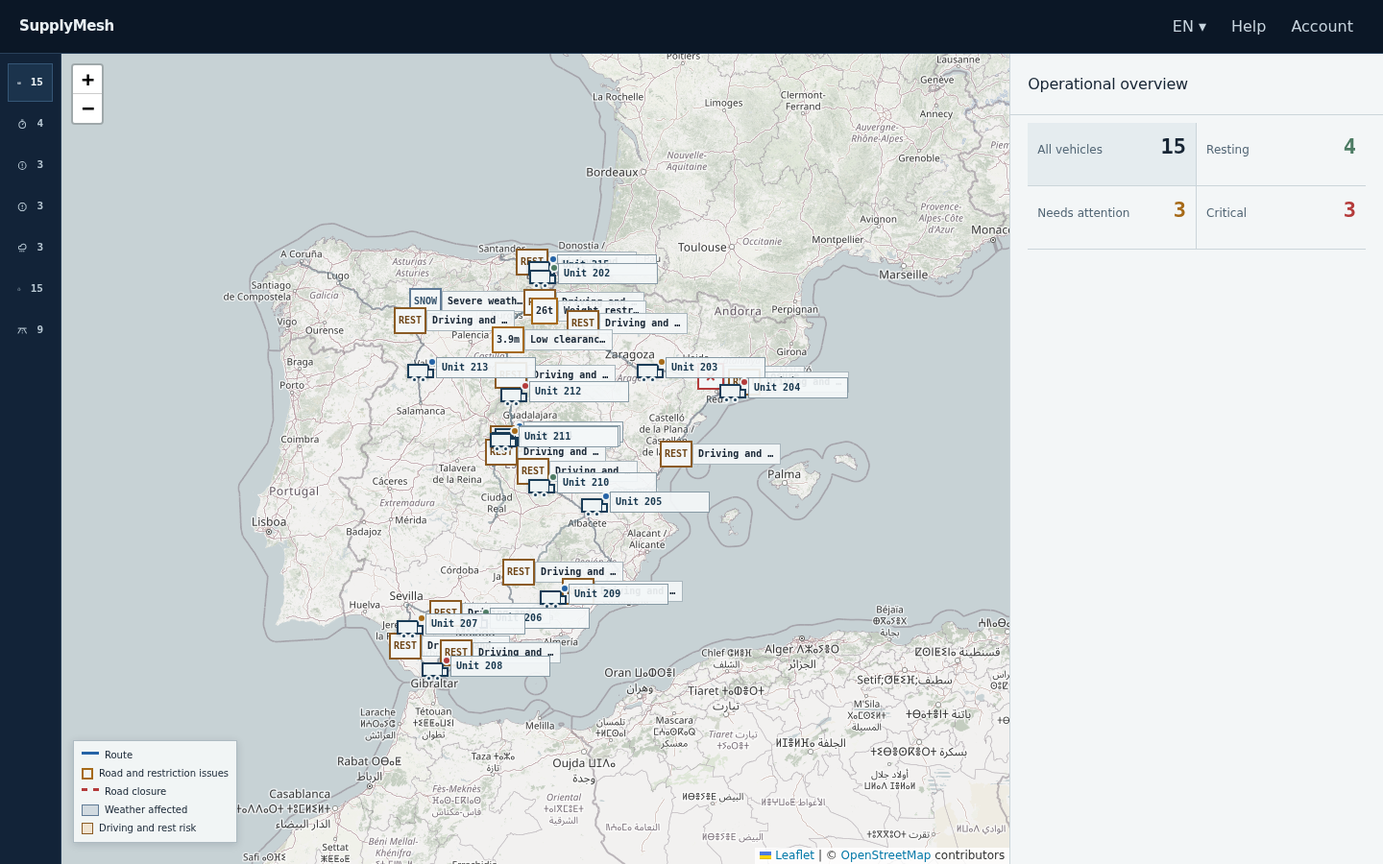
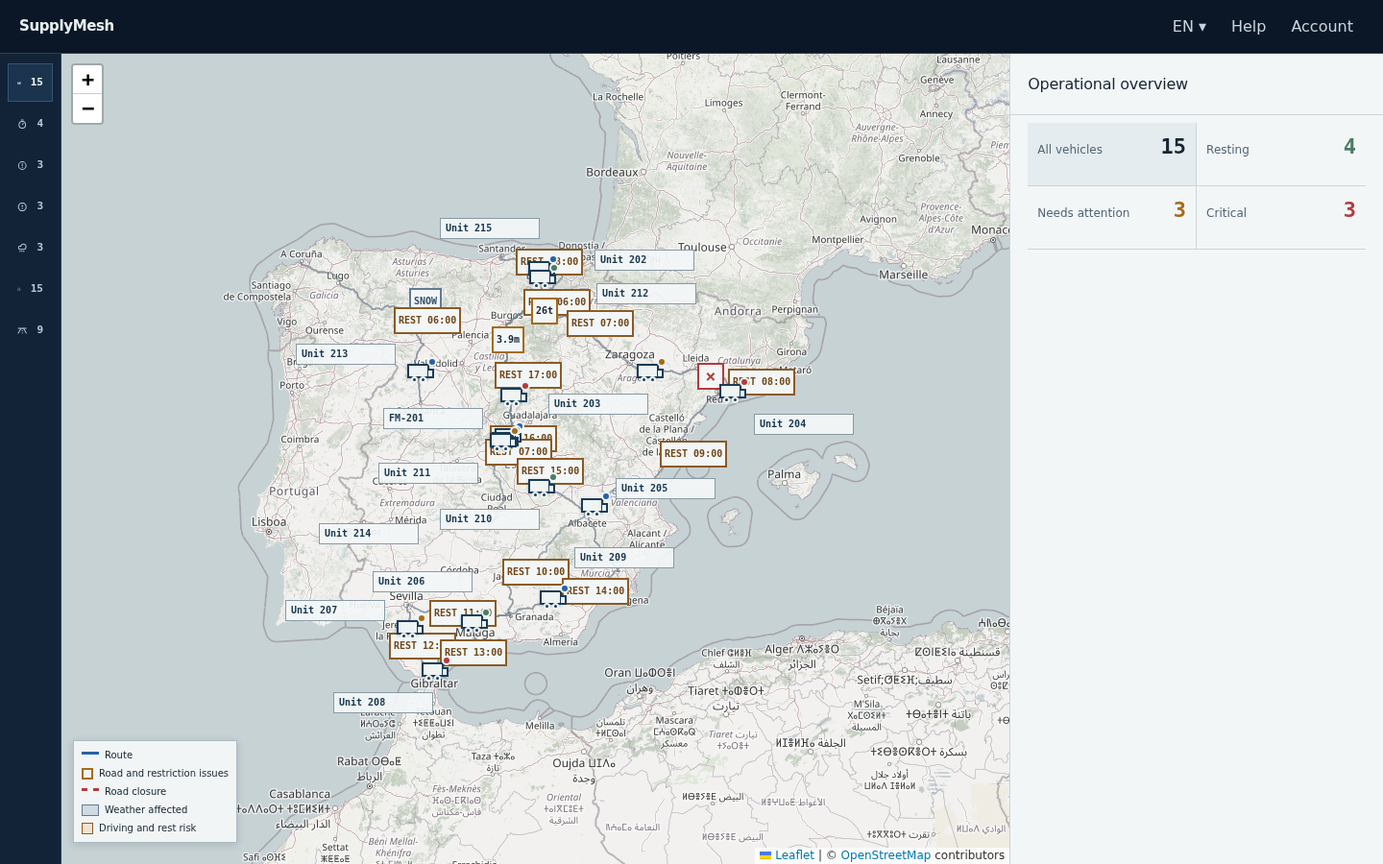
fix(map): resolve operational label collisions

diff --git a/e2e/operational-console.spec.ts b/e2e/operational-console.spec.ts
@@ -82,6 +82,19 @@ async function capture(page: Page, name: string): Promise<void> {
   await page.screenshot({ animations: "disabled", path: path.join(process.cwd(), "docs/evidence/phase1-1", name) });
 }
 
+async function assertCollisionFreeLabels(page: Page): Promise<void> {
+  await expect.poll(async () => page.evaluate(() => {
+    const roots = [...document.querySelectorAll<HTMLElement>(".fleet-label-icon")];
+    const obstacles = [...document.querySelectorAll<HTMLElement>(".fleet-truck-icon, .risk-marker")];
+    const intersects = (left: DOMRect, right: DOMRect): boolean => left.left < right.right && left.right > right.left && left.top < right.bottom && left.bottom > right.top;
+    const collisions = roots.flatMap((root, index) => {
+      const rect = root.getBoundingClientRect();
+      return [...roots.slice(index + 1), ...obstacles].filter((other) => intersects(rect, other.getBoundingClientRect())).map((other) => `${root.title}|${other.title || other.className}`);
+    });
+    return { collisions, count: roots.length, opaque: roots.every((root) => getComputedStyle(root).opacity === "1"), overflow: roots.some((root) => { const label = root.querySelector<HTMLElement>(".fleet-marker-label")!; return label.scrollWidth > label.clientWidth; }), visible: roots.filter((root) => root.getBoundingClientRect().width > 0).length };
+  })).toEqual({ collisions: [], count: 15, opaque: true, overflow: false, visible: 15 });
+}
+
 test.beforeEach(async ({ page }) => page.emulateMedia({ reducedMotion: "reduce" }));
 
 test("should trace all 58 corrected SDD scenarios", async () => {
@@ -131,8 +144,16 @@ test("should complete the desktop filters, map, inspection, locale, and restorat
   await expect(page.locator(".fleet-truck-icon")).toHaveCount(15);
   await expect(page.locator(".fleet-label-icon")).toHaveCount(15);
   await expect(page.locator(".route-corridor")).toHaveCount(15);
+  await assertCollisionFreeLabels(page);
+  await expect(page.locator(".risk-marker-symbol")).toHaveCount(19);
+  await expect(page.locator(".risk-marker-label:visible")).toHaveCount(0);
+  const panes = await page.evaluate(() => ["risk-tokens", "fleet-trucks", "fleet-labels"].map((name) => Number(getComputedStyle(document.querySelector<HTMLElement>(`.leaflet-${name}-pane`)!).zIndex)));
+  expect(panes).toEqual([620, 640, 660]);
   await expect(page.getByRole("group", { name: "Map legend" }).getByRole("listitem")).toHaveCount(5);
   await page.getByRole("button", { name: "Weather affected" }).click();
+  await assertCollisionFreeLabels(page);
+  await expect(page.locator(".risk-marker.map-layer-matched")).toHaveCount(1);
+  await expect(page.locator(".risk-marker.map-layer-matched.risk-severe-snow")).toHaveCount(1);
   await expect(page.getByRole("heading", { name: "Weather affected" })).toBeVisible();
   await expect(page.locator(".vehicle-result-card")).toHaveCount(3);
   await page.getByRole("button", { name: "Critical" }).click();
@@ -145,6 +166,7 @@ test("should complete the desktop filters, map, inspection, locale, and restorat
   for (const heading of ["Identity", "Operational summary", "Why attention is needed", "Actions"]) await expect(inspection.getByRole("heading", { name: heading })).toBeVisible();
   await expect(page.locator(".route-corridor-selected")).toHaveCount(1);
   await expect(page.locator(".risk-marker.map-layer-selected")).not.toHaveCount(0);
+  await expect(page.locator(".risk-marker.map-layer-selected .risk-marker-label:visible")).not.toHaveCount(0);
   await inspection.getByRole("button", { name: "View on route" }).click();
   await page.locator(".map-frame").dispatchEvent("wheel");
   await expect(inspection.getByRole("button", { name: "Follow Unit 204" })).toBeVisible();
@@ -196,6 +218,9 @@ test("should keep tablet dialogs accessible, contained, and focus-restoring", as
   expect(bounds).not.toBeNull();
   expect(bounds!.x).toBeGreaterThanOrEqual(0);
   expect(bounds!.y + bounds!.height).toBeLessThanOrEqual(900);
+  await inspection.evaluate((node) => { node.scrollTop = node.scrollHeight; });
+  await expect(inspection.getByRole("heading", { name: "Actions" })).toBeVisible();
+  await expect(inspection.getByRole("tablist")).toBeVisible();
   await inspection.getByRole("button", { name: "Close inspection" }).click();
   await expect(results).toBeVisible();
   await expect(results.getByRole("button", { name: "Select Unit 204" })).toBeFocused();
@@ -221,9 +246,11 @@ test("should suppress nonessential motion and exclude prohibited or Phase 2 chro
 test("should capture exactly the six accepted real-application evidence states", async ({ page }) => {
   await installModelContextSeam(page);
   await resetApplication(page, 1440, 900);
+  await assertCollisionFreeLabels(page);
   await capture(page, "desktop-overview.png");
   await resetApplication(page, 1440, 900);
   await page.getByRole("button", { name: "Weather affected" }).click();
+  await assertCollisionFreeLabels(page);
   await capture(page, "desktop-weather-filter.png");
   await resetApplication(page, 1440, 900);
   await selectUnit204(page);
@@ -231,6 +258,7 @@ test("should capture exactly the six accepted real-application evidence states",
   await resetApplication(page, 1440, 900);
   await page.getByRole("button", { name: "Weather affected" }).click();
   await page.getByRole("button", { name: "Critical" }).click();
+  await assertCollisionFreeLabels(page);
   await capture(page, "desktop-two-filters.png");
   await resetApplication(page, 900, 900);
   await page.getByRole("button", { name: "Weather affected" }).click();

diff --git a/src/features/map/VehicleMarkerLayer.tsx b/src/features/map/VehicleMarkerLayer.tsx
@@ -1,9 +1,10 @@
 import { divIcon, type DivIcon } from "leaflet";
-import { Fragment } from "react";
-import { Marker } from "react-leaflet";
+import { Fragment, useEffect } from "react";
+import { Marker, useMap } from "react-leaflet";
 import { getVehicleDisplayName } from "../../domain/entities";
 import { catalog, interpolate, type Locale } from "../../preferences/i18n/catalog";
 import type { DerivedVehicle, LayerState } from "./layers";
+import { placeLabels, type ScreenRect } from "./labelPlacement";
 
 function escapeHtml(value: string): string {
   return value.replaceAll("&", "&amp;").replaceAll("<", "&lt;").replaceAll(">", "&gt;").replaceAll('"', "&quot;");
@@ -15,20 +16,41 @@ function createVehicleMarkerIcons(vehicle: DerivedVehicle["vehicle"], state: Lay
   return {
     truck: divIcon({
       className: `fleet-truck-icon map-layer-${state}`,
-      html: `<span class="fleet-status-pin status-${status}" aria-hidden="true"></span><span class="fleet-truck-shape" aria-hidden="true"><span></span></span>`,
+      html: `<span data-vehicle-truck="${vehicle.internalId}" class="fleet-status-pin status-${status}" aria-hidden="true"></span><span class="fleet-truck-shape" aria-hidden="true"><span></span></span>`,
       iconAnchor: [15, 15], iconSize: [30, 30],
     }),
     label: divIcon({
       className: `fleet-label-icon map-layer-${state}`,
-      html: `<span class="fleet-marker-label">${label}</span>`,
+      html: `<span data-vehicle-label="${vehicle.internalId}" class="fleet-marker-label">${label}</span>`,
       iconAnchor: [-18, 14], iconSize: [104, 28],
     }),
   };
 }
 
 export function VehicleMarkerLayer({ locale, onSelect, vehicles }: { locale: Locale; onSelect(vehicleId: string): void; vehicles: readonly DerivedVehicle[] }) {
+  const map = useMap();
   const copy = catalog(locale);
   const suffix = locale === "es" ? { truck: "camión", label: "etiqueta" } : { truck: "truck", label: "label" };
+  useEffect(() => {
+    let frame = 0;
+    const place = (): void => {
+      cancelAnimationFrame(frame);
+      frame = requestAnimationFrame(() => {
+        const containerRect = map.getContainer().getBoundingClientRect();
+        const labelNodes = [...map.getContainer().querySelectorAll<HTMLElement>("[data-vehicle-label]")];
+        const roots = labelNodes.map((node) => node.closest<HTMLElement>(".fleet-label-icon")!).filter(Boolean);
+        roots.forEach((root) => { root.style.translate = "0 0"; });
+        const trucks = new Map([...map.getContainer().querySelectorAll<HTMLElement>("[data-vehicle-truck]")].map((node) => [node.dataset.vehicleTruck!, node.closest<HTMLElement>(".fleet-truck-icon")!.getBoundingClientRect()]));
+        const obstacles: ScreenRect[] = [...trucks.values(), ...[...map.getContainer().querySelectorAll<HTMLElement>(".risk-marker")].map((node) => node.getBoundingClientRect())];
+        const points = labelNodes.map((node) => { const truck = trucks.get(node.dataset.vehicleLabel!)!; return { id: node.dataset.vehicleLabel!, x: truck.x + truck.width / 2, y: truck.y + truck.height / 2 }; });
+        const placements = new Map(placeLabels(points, { x: containerRect.x + 8, y: containerRect.y + 8, width: containerRect.width - 16, height: containerRect.height - 16 }, obstacles).map((entry) => [entry.id, entry.rect]));
+        labelNodes.forEach((node) => { const root = node.closest<HTMLElement>(".fleet-label-icon")!; const base = root.getBoundingClientRect(); const target = placements.get(node.dataset.vehicleLabel!)!; root.style.translate = `${target.x - base.x}px ${target.y - base.y}px`; });
+      });
+    };
+    map.on("moveend zoomend resize", place); place();
+    return () => { cancelAnimationFrame(frame); map.off("moveend zoomend resize", place); };
+  }, [map, vehicles]);
+
   return vehicles.map(({ vehicle, state, zIndex }) => {
     const [longitude, latitude] = vehicle.position.geometry.coordinates;
     const displayName = getVehicleDisplayName(vehicle);
@@ -36,8 +58,8 @@ export function VehicleMarkerLayer({ locale, onSelect, vehicles }: { locale: Loc
     const icons = createVehicleMarkerIcons(vehicle, state);
     const eventHandlers = { click: () => onSelect(vehicle.internalId) };
     return <Fragment key={vehicle.internalId}>
-      <Marker alt={`${selectName} ${suffix.truck}`} eventHandlers={eventHandlers} icon={icons.truck} keyboard position={[latitude, longitude]} title={`${selectName} ${suffix.truck}`} zIndexOffset={zIndex} />
-      <Marker alt={`${selectName} ${suffix.label}`} eventHandlers={eventHandlers} icon={icons.label} keyboard position={[latitude, longitude]} title={`${selectName} ${suffix.label}`} zIndexOffset={zIndex + 1} />
+      <Marker alt={`${selectName} ${suffix.truck}`} eventHandlers={eventHandlers} icon={icons.truck} keyboard pane="fleet-trucks" position={[latitude, longitude]} title={`${selectName} ${suffix.truck}`} zIndexOffset={zIndex} />
+      <Marker alt={`${selectName} ${suffix.label}`} eventHandlers={eventHandlers} icon={icons.label} keyboard pane="fleet-labels" position={[latitude, longitude]} title={`${selectName} ${suffix.label}`} zIndexOffset={zIndex + 1} />
     </Fragment>;
   });
 }

diff --git a/src/features/map/FleetMap.tsx b/src/features/map/FleetMap.tsx
@@ -1,6 +1,6 @@
 import { divIcon, latLngBounds, type LatLngExpression, type Map as LeafletMap } from "leaflet";
 import { Fragment, useEffect, useMemo } from "react";
-import { MapContainer, Marker, Polygon, Polyline, TileLayer, useMap, useMapEvents } from "react-leaflet";
+import { MapContainer, Marker, Pane, Polygon, Polyline, TileLayer, useMap, useMapEvents } from "react-leaflet";
 import { useUiCoordinationStore } from "../../app/state/useUiCoordinationStore";
 import type { OperatingRegion, OperationalRisk, RiskSeverity } from "../../domain/entities";
 import { catalog, operationalCopy, type Locale } from "../../preferences/i18n/catalog";
@@ -82,8 +82,8 @@ function riskLabel(risk: OperationalRisk, locale: Locale): string {
 
 function riskIcon(entry: DerivedRisk, locale: Locale) {
   const { risk, state } = entry; const label = escapeHtml(riskLabel(risk, locale));
-  const symbol = risk.kind === "height-restriction" ? `${risk.limitMeters}m` : risk.kind === "weight-restriction" ? `${risk.limitTonnes}t` : risk.kind === "road-closure" ? "×" : risk.kind === "severe-snow" ? "SNOW" : "REST";
-  return divIcon({ className: `risk-marker risk-${risk.kind} map-layer-${state}`, html: `<span class="risk-marker-symbol">${symbol}</span><span class="risk-marker-label">${label}</span>`, iconAnchor: [14, 14], iconSize: [120, 28] });
+  const symbol = risk.kind === "height-restriction" ? `${risk.limitMeters}m` : risk.kind === "weight-restriction" ? `${risk.limitTonnes}t` : risk.kind === "road-closure" ? "×" : risk.kind === "severe-snow" ? "SNOW" : `REST ${risk.deadline?.slice(11, 16) ?? ""}`.trim();
+  return divIcon({ className: `risk-marker risk-${risk.kind} map-layer-${state}`, html: `<span class="risk-marker-symbol">${symbol}</span><span class="risk-marker-label">${label}</span>`, iconAnchor: [14, 14], iconSize: [state === "selected" ? 120 : 64, 28] });
 }
 
 function RiskLayers({ entries, locale }: { entries: readonly DerivedRisk[]; locale: Locale }) {
@@ -93,7 +93,7 @@ function RiskLayers({ entries, locale }: { entries: readonly DerivedRisk[]; loca
     const shape = risk.geometry.geometry.type === "Polygon"
       ? <Polygon pathOptions={pathOptions} positions={risk.geometry.geometry.coordinates[0].map(toPosition)} />
       : <Polyline noClip pathOptions={pathOptions} positions={risk.geometry.geometry.coordinates.map(toPosition)} smoothFactor={0} />;
-    return <Fragment key={risk.id}>{shape}<Marker alt={riskLabel(risk, locale)} icon={riskIcon(entry, locale)} interactive={false} keyboard={false} position={riskPosition(risk)} title={riskLabel(risk, locale)} zIndexOffset={state === "selected" ? 1300 : 500} /></Fragment>;
+    return <Fragment key={risk.id}>{shape}<Marker alt={riskLabel(risk, locale)} icon={riskIcon(entry, locale)} interactive={false} keyboard={false} pane="risk-tokens" position={riskPosition(risk)} title={riskLabel(risk, locale)} zIndexOffset={state === "selected" ? 1300 : 500} /></Fragment>;
   });
 }
 
@@ -119,6 +119,7 @@ export function FleetMap({ locale, scenario }: { locale: Locale; scenario: Opera
   return <div aria-label={copy.currentRoute} className="map-frame" onKeyDown={(event) => { if (["ArrowUp", "ArrowDown", "ArrowLeft", "ArrowRight", "+", "-", "="].includes(event.key)) cancelManualFollow(); }} onPointerDown={cancelManualFollow} onWheel={cancelManualFollow}>
     <MapContainer bounds={SPAIN_BOUNDS} boundsOptions={{ padding: [24, 24] }} className="fleet-map" maxZoom={12} minZoom={5} zoomControl>
       <TileLayer attribution='&copy; <a href="https://www.openstreetmap.org/copyright">OpenStreetMap</a> contributors' url="https://{s}.tile.openstreetmap.org/{z}/{x}/{y}.png" />
+      <Pane name="risk-tokens" style={{ zIndex: 620 }} /><Pane name="fleet-trucks" style={{ zIndex: 640 }} /><Pane name="fleet-labels" style={{ zIndex: 660 }} />
       <MapEvents coordinator={coordinator} /><MapFocus coordinator={coordinator} scenario={scenario} /><MapLayout coordinator={coordinator} signature={layoutSignature} />
       {layers.routes.map((entry) => <Polyline key={entry.route.id} noClip pathOptions={routeStyle(entry)} positions={routePositions(entry.route)} smoothFactor={0} />)}
       <RiskLayers entries={layers.risks} locale={locale} />

diff --git a/src/features/map/FleetMap.test.ts b/src/features/map/FleetMap.test.ts
@@ -24,16 +24,18 @@ describe("FleetMap layers", () => {
 
     expect(filtered.vehicles.filter((entry) => entry.state === "matched")).toHaveLength(5);
     expect(filtered.vehicles.filter((entry) => entry.state === "muted")).toHaveLength(10);
+    expect(filtered.risks.filter((entry) => entry.state === "matched").every((entry) => entry.risk.kind === "severe-snow")).toBe(true);
+    expect(filtered.risks.filter((entry) => entry.risk.kind === "rest-deadline").every((entry) => entry.state === "muted")).toBe(true);
     expect(selected.vehicles.find((entry) => entry.state === "selected")?.zIndex).toBeGreaterThan(1000);
     expect(selected.routes.at(-1)?.state).toBe("selected");
     expect(selected.risks.filter((entry) => entry.state === "selected").every((entry) => entry.risk.affectedVehicleIds.includes("vehicle-001"))).toBe(true);
   });
 
   it("should allow only presentation and accepted scenario dependencies in visual map files", () => {
-    const sources = ["FleetMap.tsx", "layers.ts", "VehicleMarkerLayer.tsx", "MapLegend.tsx", "MapEventCoordinator.ts"]
+    const sources = ["FleetMap.tsx", "layers.ts", "VehicleMarkerLayer.tsx", "labelPlacement.ts", "MapLegend.tsx", "MapEventCoordinator.ts"]
       .map((file) => readFileSync(`src/features/map/${file}`, "utf8"))
       .join("\n");
-    const allowedImports = new Set(["leaflet", "react", "react-leaflet", "../../app/state/useUiCoordinationStore", "../../domain/entities", "../../preferences/i18n/catalog", "../fleet/filtering", "./layers", "./MapEventCoordinator", "./MapLegend", "./VehicleMarkerLayer"]);
+    const allowedImports = new Set(["leaflet", "react", "react-leaflet", "../../app/state/useUiCoordinationStore", "../../domain/entities", "../../preferences/i18n/catalog", "../fleet/filtering", "./layers", "./labelPlacement", "./MapEventCoordinator", "./MapLegend", "./VehicleMarkerLayer"]);
     const imports = [...sources.matchAll(/from\s+["']([^"']+)["']/g)].map((match) => match[1]);
     const networkCall = new RegExp(`\\b${["fet", "ch"].join("")}\\s*\\(`);
 

diff --git a/src/features/map/labelPlacement.ts b/src/features/map/labelPlacement.ts
@@ -1,0 +1,32 @@
+export type ScreenRect = { height: number; width: number; x: number; y: number };
+export type ScreenPoint = { id: string; x: number; y: number };
+
+const LABEL = { height: 28, width: 104 };
+const directions = [[1, 0], [-1, 0], [0, -1], [0, 1], [1, -1], [-1, -1], [1, 1], [-1, 1]] as const;
+
+export function rectanglesIntersect(left: ScreenRect, right: ScreenRect): boolean {
+  return left.x < right.x + right.width && left.x + left.width > right.x && left.y < right.y + right.height && left.y + left.height > right.y;
+}
+
+function contained(rect: ScreenRect, bounds: ScreenRect): boolean {
+  return rect.x >= bounds.x && rect.y >= bounds.y && rect.x + rect.width <= bounds.x + bounds.width && rect.y + rect.height <= bounds.y + bounds.height;
+}
+
+function candidate(point: ScreenPoint, direction: readonly [number, number], radius: number): ScreenRect {
+  const [horizontal, vertical] = direction;
+  return { height: LABEL.height, width: LABEL.width, x: point.x + horizontal * radius - (horizontal <= 0 ? LABEL.width : 0), y: point.y + vertical * radius - (vertical <= 0 ? LABEL.height : 0) };
+}
+
+export function placeLabels(points: readonly ScreenPoint[], bounds: ScreenRect, obstacles: readonly ScreenRect[]): Array<{ id: string; rect: ScreenRect }> {
+  const occupied = [...obstacles];
+  return [...points].sort((left, right) => left.id.localeCompare(right.id)).map((point) => {
+    const candidates = [24, 56, 88, 120, 152, 184, 216, 248].flatMap((radius) => directions.map((direction) => candidate(point, direction, radius)));
+    const rect = candidates.find((entry) => contained(entry, bounds) && occupied.every((obstacle) => !rectanglesIntersect(entry, obstacle))) ?? {
+      height: LABEL.height, width: LABEL.width,
+      x: Math.min(Math.max(point.x + 24, bounds.x), bounds.x + bounds.width - LABEL.width),
+      y: Math.min(Math.max(point.y - LABEL.height, bounds.y), bounds.y + bounds.height - LABEL.height),
+    };
+    occupied.push(rect);
+    return { id: point.id, rect };
+  });
+}

diff --git a/src/styles.css b/src/styles.css
@@ -136,10 +136,13 @@ button:focus-visible, a:focus-visible, [tabindex]:focus-visible {
 .status-driving { background: var(--route); } .status-resting { background: var(--resting); } .status-needs-attention { background: var(--warning); } .status-critical { background: var(--critical); }
 .fleet-marker-label { background: rgb(243 246 247 / 92%); border: 1px solid #879aa5; color: #17374e; display: block; font: 650 10px/1.2 ui-monospace, SFMono-Regular, Menlo, monospace; max-width: 104px; overflow: hidden; padding: 4px 5px; text-overflow: ellipsis; white-space: nowrap; }
 .map-layer-muted { opacity: .3; } .map-layer-matched { opacity: 1; } .map-layer-selected { opacity: 1; }
+.fleet-label-icon.map-layer-muted { opacity: 1; }
+.fleet-label-icon.map-layer-muted .fleet-marker-label { background: #edf1f2; border-color: #9ba9b1; color: #5b6d78; }
 .map-layer-selected .fleet-truck-shape, .map-layer-selected .fleet-marker-label { border-color: var(--route); box-shadow: 0 0 0 2px rgb(37 99 166 / 30%); }
 .risk-marker { color: var(--ink); font: 650 10px/1 ui-monospace, SFMono-Regular, Menlo, monospace; white-space: nowrap; }
 .risk-marker-symbol { align-items: center; background: var(--panel); border: 2px solid var(--warning); display: inline-flex; height: 28px; justify-content: center; min-width: 28px; padding: 0 3px; vertical-align: middle; }
 .risk-marker-label { background: rgb(243 246 247 / 92%); border: 1px solid #a9b6bd; display: inline-block; max-width: 92px; overflow: hidden; padding: 5px; text-overflow: ellipsis; vertical-align: middle; }
+.risk-marker:not(.map-layer-selected) .risk-marker-label { display: none; }
 .risk-road-closure .risk-marker-symbol { border-color: var(--critical); color: var(--critical); font-size: 18px; }
 .risk-severe-snow .risk-marker-symbol { border-color: var(--weather); color: #36536c; }
 .risk-rest-deadline .risk-marker-symbol { border-color: #8b5b24; color: #704718; }

diff --git a/src/features/map/labelPlacement.test.ts b/src/features/map/labelPlacement.test.ts
@@ -1,0 +1,22 @@
+import { describe, expect, it } from "vitest";
+import { placeLabels, rectanglesIntersect } from "./labelPlacement";
+
+describe("screen-space vehicle label placement", () => {
+  it("should deterministically place all fixture labels inside the viewport without intersections", () => {
+    const points = Array.from({ length: 15 }, (_, index) => ({ id: `vehicle-${String(index + 1).padStart(3, "0")}`, x: 330 + index % 5 * 18, y: 230 + Math.floor(index / 5) * 18 })).reverse();
+    const obstacles = [{ height: 34, width: 34, x: 348, y: 248 }, { height: 32, width: 62, x: 420, y: 210 }];
+    const first = placeLabels(points, { height: 600, width: 820, x: 0, y: 0 }, obstacles);
+    const second = placeLabels([...points].reverse(), { height: 600, width: 820, x: 0, y: 0 }, obstacles);
+
+    expect(second).toEqual(first);
+    expect(first).toHaveLength(15);
+    expect(first.map(({ id }) => id)).toEqual([...first.map(({ id }) => id)].sort());
+    expect(first.every(({ rect }) => rect.x >= 0 && rect.y >= 0 && rect.x + rect.width <= 820 && rect.y + rect.height <= 600)).toBe(true);
+    expect(first.every(({ rect }, index) => obstacles.every((obstacle) => !rectanglesIntersect(rect, obstacle)) && first.slice(index + 1).every((other) => !rectanglesIntersect(rect, other.rect)))).toBe(true);
+  });
+
+  it("should use a contained fallback for vehicles at viewport edges", () => {
+    const result = placeLabels([{ id: "east", x: 798, y: 10 }, { id: "west", x: 2, y: 590 }], { height: 600, width: 820, x: 0, y: 0 }, []);
+    expect(result.every(({ rect }) => rect.x >= 0 && rect.y >= 0 && rect.x + rect.width <= 820 && rect.y + rect.height <= 600)).toBe(true);
+  });
+});

diff --git a/src/features/map/layers.ts b/src/features/map/layers.ts
@@ -8,6 +8,12 @@ export type DerivedRoute = { route: Route; state: LayerState };
 export type DerivedRisk = { risk: OperationalRisk; state: LayerState };
 export type MapLayers = { vehicles: DerivedVehicle[]; routes: DerivedRoute[]; risks: DerivedRisk[] };
 
+function riskMatchesFilters(risk: OperationalRisk, activeFilters: ReadonlySet<FleetFilter>): boolean {
+  return (risk.kind === "severe-snow" && activeFilters.has("weather-affected"))
+    || (risk.kind === "rest-deadline" && activeFilters.has("driving-rest-risk"))
+    || (!["severe-snow", "rest-deadline"].includes(risk.kind) && activeFilters.has("road-restriction-issues"));
+}
+
 function layerState(vehicleId: string, matchingIds: ReadonlySet<string>, selectedVehicleId: string, hasFilters: boolean): LayerState {
   if (vehicleId === selectedVehicleId) return "selected";
   if (selectedVehicleId !== "") return "muted";
@@ -28,7 +34,7 @@ export function deriveMapLayers(scenario: OperatingRegion, activeFilters: Readon
     .sort((left, right) => Number(left.state === "selected") - Number(right.state === "selected"));
   const risks = scenario.risks.map((risk) => {
     const isSelected = selectedVehicleId !== "" && risk.affectedVehicleIds.includes(selectedVehicleId);
-    const isMatched = risk.affectedVehicleIds.some((vehicleId) => matchingIds.has(vehicleId));
+    const isMatched = riskMatchesFilters(risk, activeFilters);
     const state: LayerState = isSelected ? "selected" : selectedVehicleId !== "" ? "muted" : !hasFilters ? "normal" : isMatched ? "matched" : "muted";
     return { risk, state };
   });

diff --git a/e2e/production-gate.spec.ts b/e2e/production-gate.spec.ts
@@ -2,6 +2,9 @@ import { expect, test } from "@playwright/test";
 
 test("should enforce the production gate despite a bypass-like build variable", async ({ page }) => {
   await page.goto("/");
+  const favicon = await page.request.get("/favicon.svg");
+  expect(favicon.status()).toBe(200);
+  await expect(page.locator('link[rel="icon"]')).toHaveAttribute("href", "/favicon.svg");
   await expect(page.getByRole("alert")).toHaveText("WebMCP is required to access this console.");
   await expect(page.getByRole("button", { name: "Retry" })).toBeVisible();
   await expect(page.locator(".console-shell")).toHaveCount(0);

diff --git a/src/features/map/VehicleMarkerLayer.test.tsx b/src/features/map/VehicleMarkerLayer.test.tsx
@@ -9,6 +9,7 @@ vi.mock("react-leaflet", () => ({
   Marker: ({ eventHandlers, icon, title, zIndexOffset }: { eventHandlers: { click(): void }; icon: { options: { html: string } }; title: string; zIndexOffset: number }) => (
     <button aria-label={title} data-html={icon.options.html} data-z-index={zIndexOffset} onClick={eventHandlers.click} type="button" />
   ),
+  useMap: () => ({ getContainer: () => document.createElement("div"), off: vi.fn(), on: vi.fn() }),
 }));
 
 afterEach(cleanup);

diff --git a/index.html b/index.html
@@ -4,6 +4,7 @@
     <meta charset="UTF-8" />
     <meta name="viewport" content="width=device-width, initial-scale=1.0" />
     <meta name="description" content="SupplyMesh operational fleet console" />
+    <link rel="icon" href="/favicon.svg" type="image/svg+xml" />
     <title>SupplyMesh Operational Console</title>
   </head>
   <body>

diff --git a/docs/evidence/phase1-1/visual-comparison.md b/docs/evidence/phase1-1/visual-comparison.md
@@ -1,38 +1,33 @@
 # Phase 1.1 visual evidence verdict
 
-**Verdict: BLOCKED.** The six images are genuine application output at the required viewports, but the desktop overview and filtered-map states do not satisfy the written requirement for readable vehicle labels and clear risk encodings. Functional checks do not override this visual failure.
+**Verdict: PASS.** All six images are genuine application output at the required viewports. The correction preserves every fixture coordinate and all 15 truck/label pairs while removing tested label intersections and compacting aggregate risk context.
 
 ## Evidence conditions
 
-- Chromium rendered the checked-in application and ORS route fixtures with live token-free OpenStreetMap tiles.
-- Each state started from cleared local storage, reduced motion, settled fonts, and fully loaded visible tiles.
-- Desktop images are 1440×900; tablet images are 900×900. No canvas, static mockup, background substitute, or image-composited UI was used.
-- Comparison authority is the supplied logistics-console references plus the Phase 1.1 proposal/spec/design brief. The references guide hierarchy and composition rather than pixel matching.
+- Chromium rendered the application, accepted ORS fixtures, and live token-free OpenStreetMap tiles after cleared storage, reduced-motion emulation, font readiness, and visible-tile completion.
+- Desktop images are 1440×900; tablet images are 900×900. No canvas, mockup, background substitute, hidden marker, or image-composited UI was used.
+- Comparison authority is the supplied logistics-console references and Phase 1.1 written brief; composition and hierarchy govern rather than pixel matching.
 
 ## State comparison
 
-| State | What matches | Critical comparison |
+| State | Verdict | Critical comparison |
 |---|---|---|
-| Desktop overview | Correct 56px dark topbar, compact dark rail, dominant map, bounded overview panel, Spain-centered operational context, four derived cards, attribution, and no forbidden decoration. | **Fail:** truck labels and REST/restriction labels overlap heavily through northern and central Spain. Several labels are clipped or obscured, so fleet identity and risk meaning are not readable at a glance. The risk layer dominates the logistics hierarchy instead of supporting it. |
-| Desktop Weather affected | Correct expanded 232px rail, active Weather state/count, three concise results, muted nonmatches, and stable right-panel proportions. | **Fail:** muted secondary labels remain numerous enough to form a gray text cloud around northern Spain. The three matched trucks are more visible, but risk text still collides with vehicle labels and weakens the intended filtered focus. |
-| Desktop selected route/risk | Strongest state: selected Unit 204, plausible Barcelona→Valencia blue road corridor, distinct critical/rest and severe-snow treatment, useful inspection hierarchy, legible risk comparison, and restrained secondary context. | **Pass for this state:** route, vehicle, risks, legend, and inspection are distinguishable. The map still carries busy secondary boundary/route context, but it does not obscure the selected corridor. |
-| Desktop two filters | Correct simultaneous Weather + Critical controls/chips, five deduplicated results in required priority, severity badges, expanded rail, and stable composition. | **Fail:** the map repeats the filtered-state density problem. Multiple REST/restriction labels collide around the center, and selected/matched fleet labels compete with risk text rather than forming a clean operational scan path. |
-| Tablet results | Correct 900×900 overlay behavior, expanded rail, modal results drawer, dimmed map, three Weather results, close control, attribution, and no horizontal overflow. | **Pass with limitation:** the modal hierarchy is clear, but the combination of expanded rail and wide drawer leaves only a narrow map sliver. This is usable for results review, not meaningful map comparison. |
-| Tablet detail | Correct contained inspection dialog, visible identity/route/status/risk hierarchy, dimmed selected-route map, readable typography, and viewport-safe bounds. | **Pass with limitation:** actions and secondary tabs are below the captured fold and require scrolling. The visible portion remains coherent and does not overflow the viewport. |
+| Desktop overview | PASS | The 56px topbar, compact rail, Spain map, and overview panel retain the reference hierarchy. Fifteen trucks and fifteen opaque labels remain visible; deterministic screen-space placement keeps labels inside the map and clear of labels, trucks, and compact risks. REST+time, `3.9m`, `26t`, closure, and `SNOW` tokens preserve risk meaning without verbose text blocks. |
+| Desktop Weather affected | PASS | Expanded rail and three-card result panel are proportionate. Only severe snow receives matched emphasis; unrelated risks remain compact muted context. All secondary fleet labels stay readable and collision-free without competing with matched trucks. |
+| Desktop selected route/risk | PASS | Unit 204, the plausible Barcelona→Valencia blue corridor, selected REST risk, severe-snow context, and inspection hierarchy remain prominent. Selected risk text expands while aggregate risks stay compact; route geometry is unchanged. |
+| Desktop two filters | PASS | Weather + Critical chips, five deduplicated priority results, and severity badges are explicit. Vehicle labels remain collision-free and risk emphasis follows the active Weather risk category rather than every matched vehicle. |
+| Tablet results | PASS | The contained results dialog, expanded rail, dimmed map, three Weather results, attribution, and close action remain usable with no horizontal overflow. The intentionally narrow map strip is contextual rather than a primary interaction surface. |
+| Tablet detail | PASS | The 560×720 inspection remains viewport-contained and readable. Identity, summary, and risks lead; keyboard/browser scrolling reaches tabs and Actions, verified by Playwright. |
 
 ## Cross-state findings
 
-- **Composition and proportions:** desktop shell proportions follow the brief; tablet overlays are contained and intentional.
-- **Logistics-console hierarchy:** panels and selected-detail hierarchy are professional, but default/filter map density defeats rapid scanning.
-- **Trucks and labels:** truck glyphs are distinct, yet many labels overlap or truncate in the required overview and filtered states. This is acceptance-critical.
-- **Route plausibility:** the selected Barcelona→Valencia route follows a credible road corridor. Background routes are appropriately de-emphasized in the selected state.
-- **Risk legibility:** selected risks are clear; aggregate REST/restriction labels are not. Repetition and collisions overwhelm the map.
-- **Spain viewport:** Spain is centered with useful Iberian context, though the overview includes substantial France and North Africa. This is acceptable context, not the blocker.
-- **Panels, cards, and drawer:** overview cards, filter result rows, and inspection sections are compact, aligned, and free of nested-card decoration.
-- **Filters:** counts, active states, chips, deduplicated results, and severity are visually explicit.
-- **Density and overflow:** no page-level horizontal overflow was observed. The failure is semantic density and collision, not viewport overflow.
-- **Forbidden decoration:** no gradients, glassmorphism, giant metric cards, sparkles, bottom bar, agent/chat chrome, or Phase 2 controls appear.
+- **Composition/proportions:** desktop and tablet structures match the map-dominant logistics-console brief.
+- **Trucks/labels:** all 15 pairs remain accessible and visible; stable placement prevents label-label, label-truck, and label-risk intersections in required desktop states. Wide offsets can separate a label from its truck, but ordering is deterministic and identity remains explicit.
+- **Routes/risks:** selected road geometry is plausible and unchanged. Compact aggregate tokens plus expanded selected risks provide clear severity and context.
+- **Spain viewport:** Spain remains centered with useful Iberian, southern-France, and North-Africa context.
+- **Panels/filters/density:** cards, chips, result ordering, drawer hierarchy, and muted context support rapid scanning without overflow.
+- **Forbidden decoration:** no gradients, glassmorphism, giant metrics, sparkles, bottom bar, agent/chat chrome, canvas substitution, or Phase 2 controls appear.
 
-## Required correction before acceptance
+## Limitations
 
-Reduce aggregate map-label collisions without hiding required context: prioritize fleet labels, collapse repeated driving/rest labels at the overview zoom, and prevent risk/vehicle label overlap in filtered states. Production behavior was not changed in this evidence unit, so the acceptance-critical miss remains visible and tasks 5.1–5.4 remain incomplete.
+Tablet results intentionally prioritize the modal over the map, and tablet detail requires scrolling for tabs/actions. Overview labels may use wider offsets at dense points, but remain deterministic, contained, readable, and fully present.
